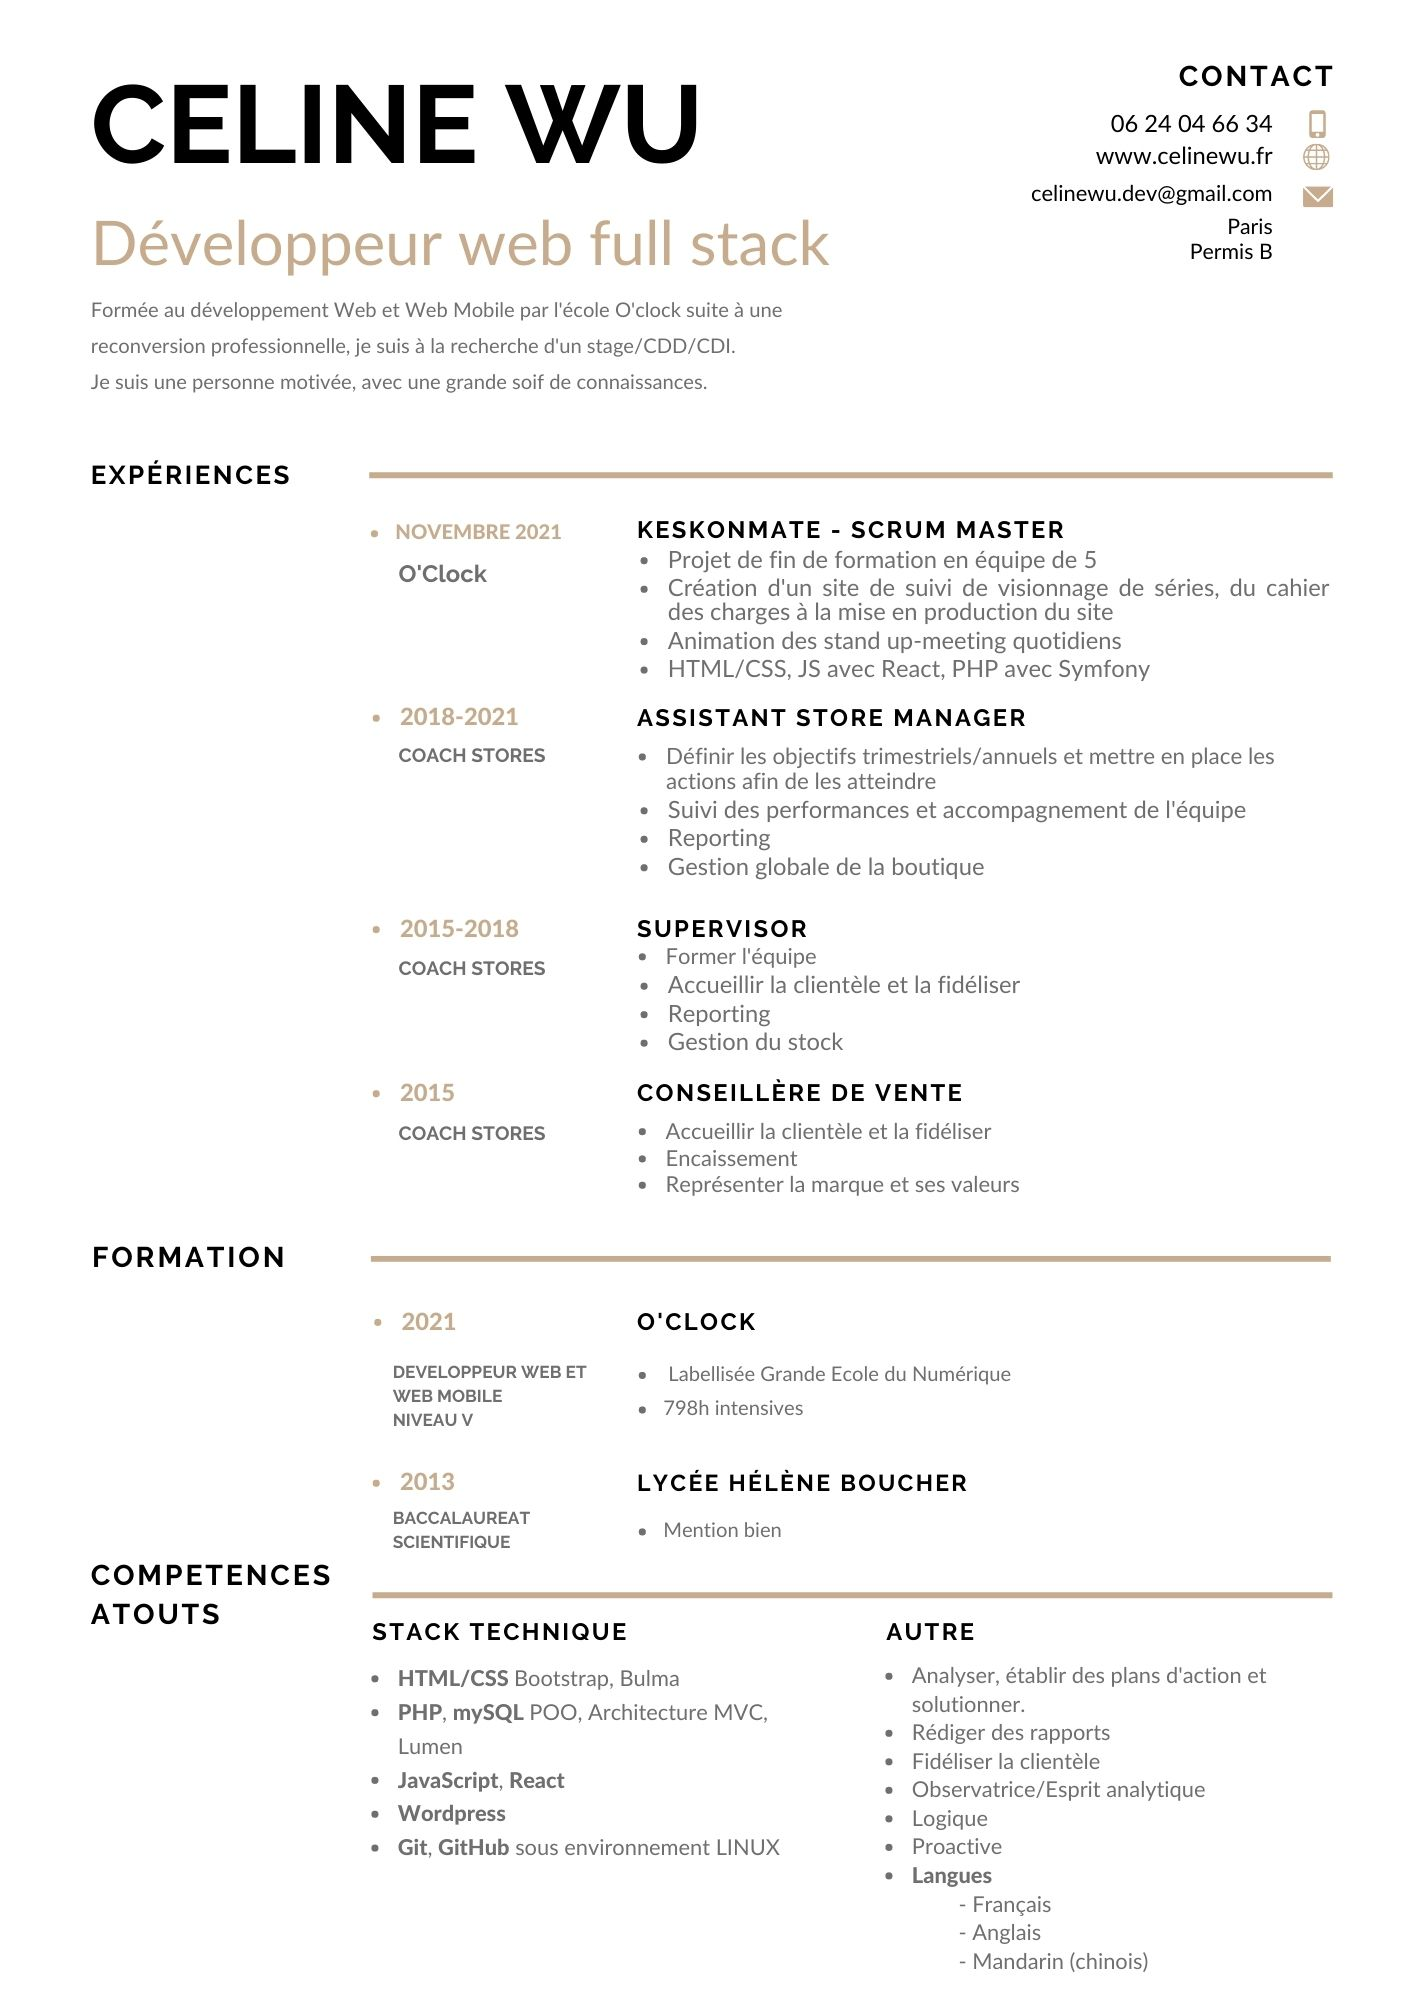
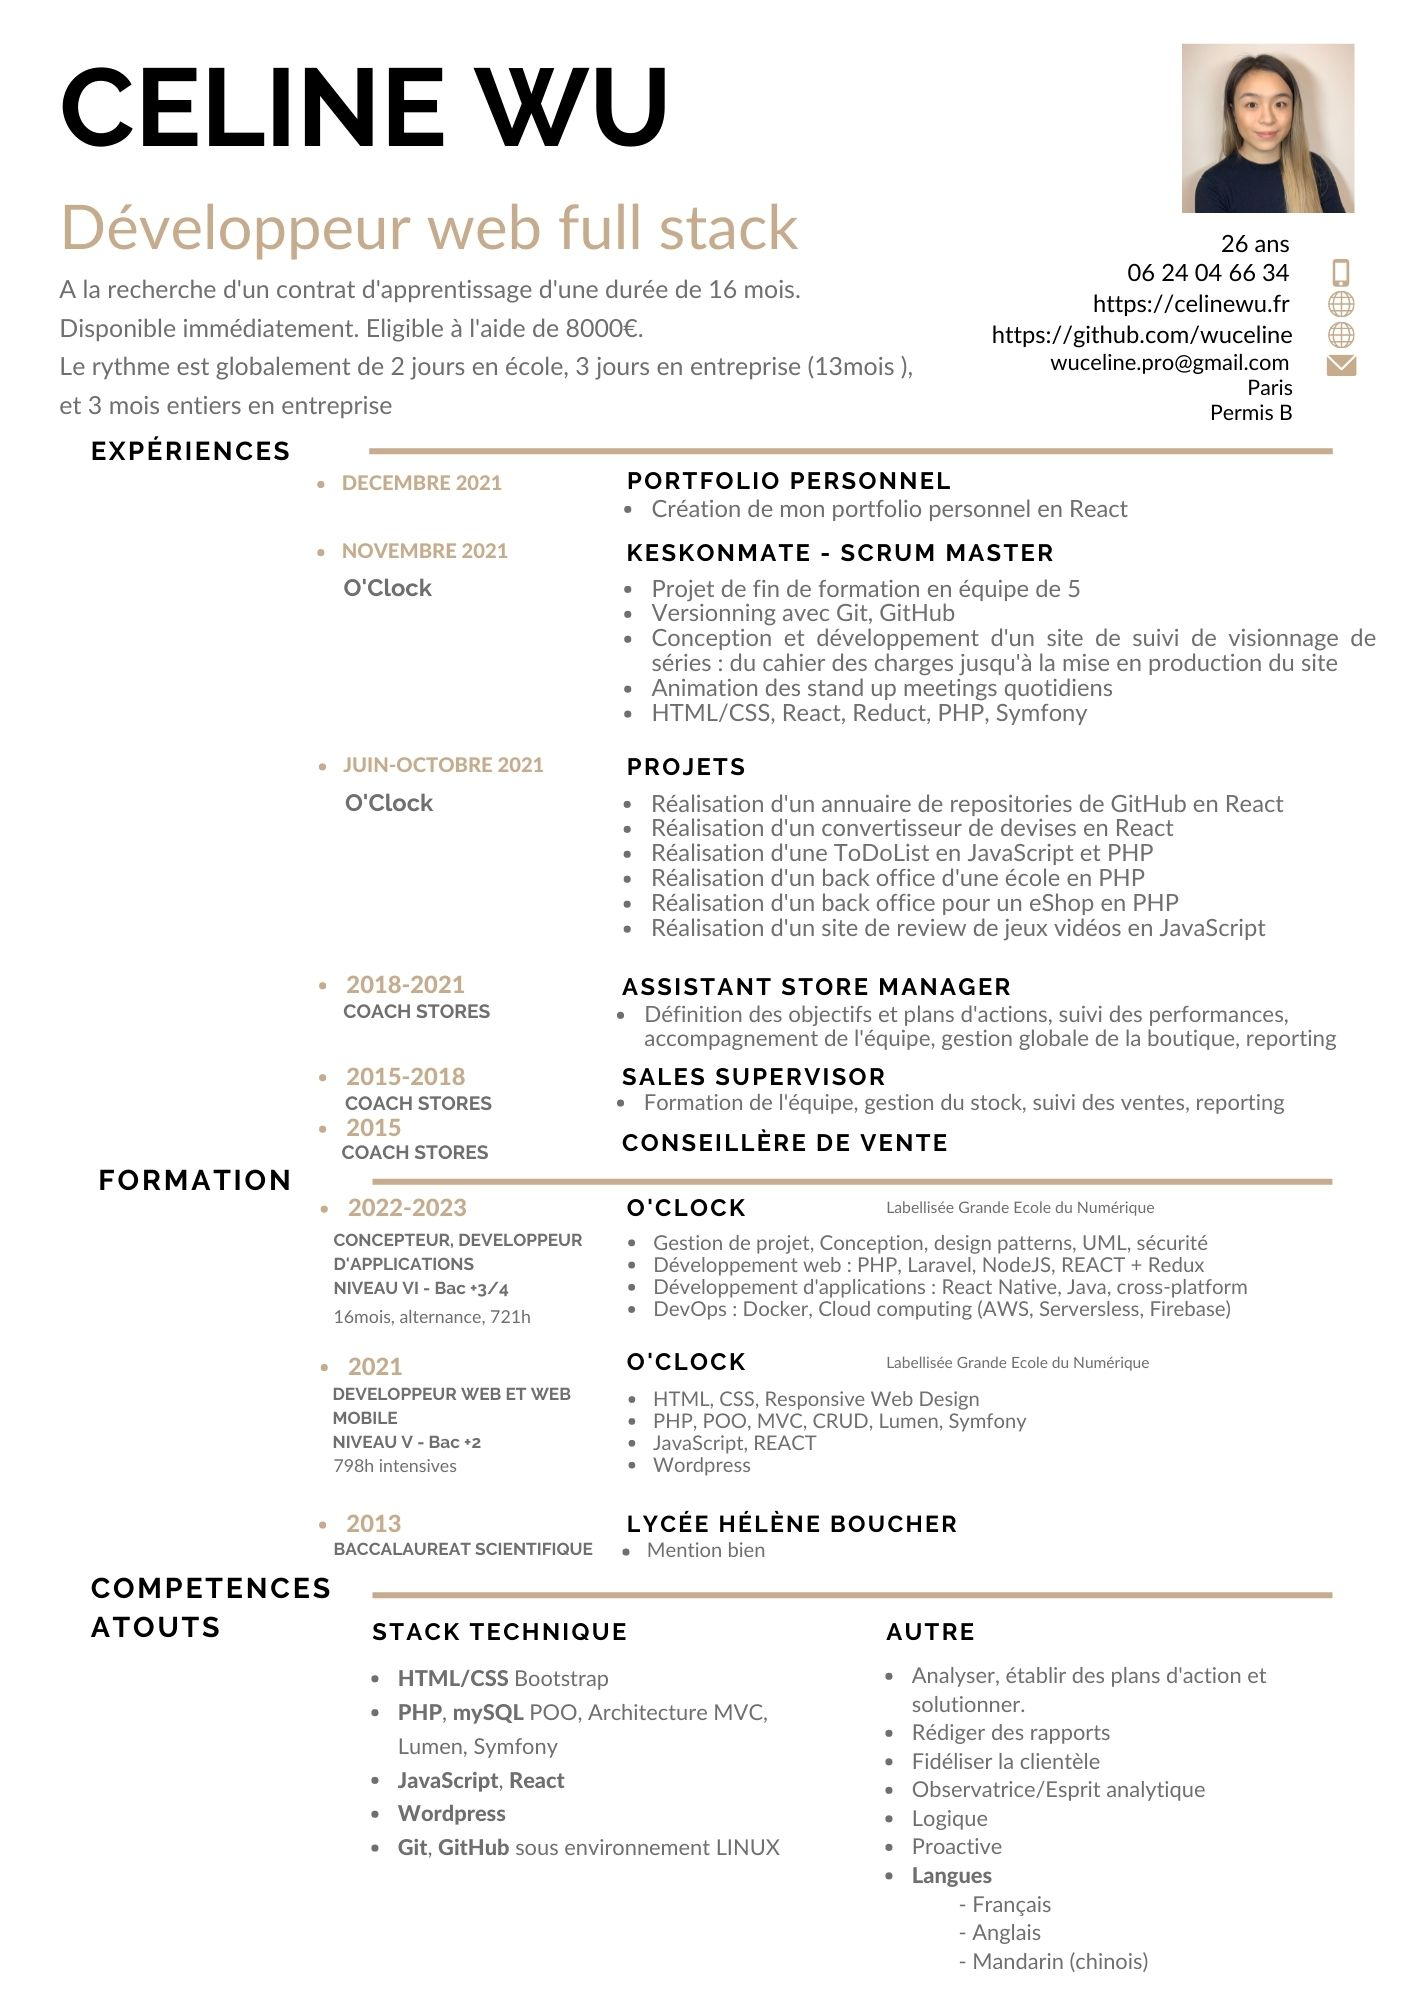
edit contact info and cv

diff --git a/src/components/Contact/index.js b/src/components/Contact/index.js
@@ -5,7 +5,7 @@ const Contact = () => (
   <div className="contact">
     <h1 className="categories-title">Contact me</h1>
     <Form />
-    <p className="text">You can also contact me on <a href="mailto:celinewu.dev@gmail.com">celinewu.dev@gmail.com</a></p>
+    <p className="text">You can also contact me on <a href="mailto:wuceline.pro@gmail.com">wuceline.pro@gmail.com</a></p>
   </div>
 );
 
